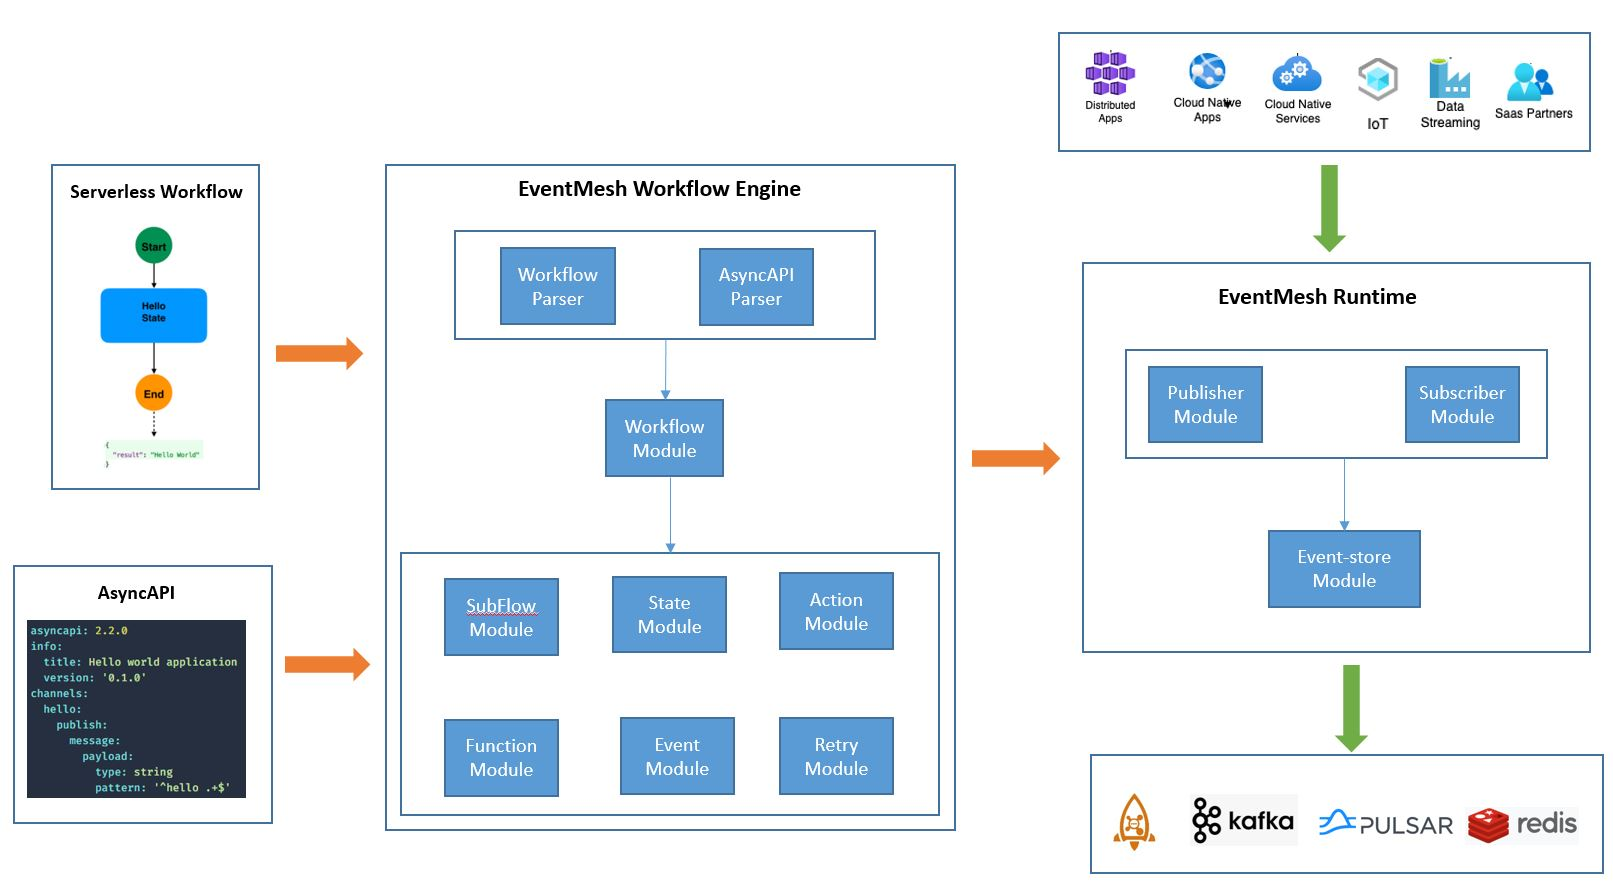
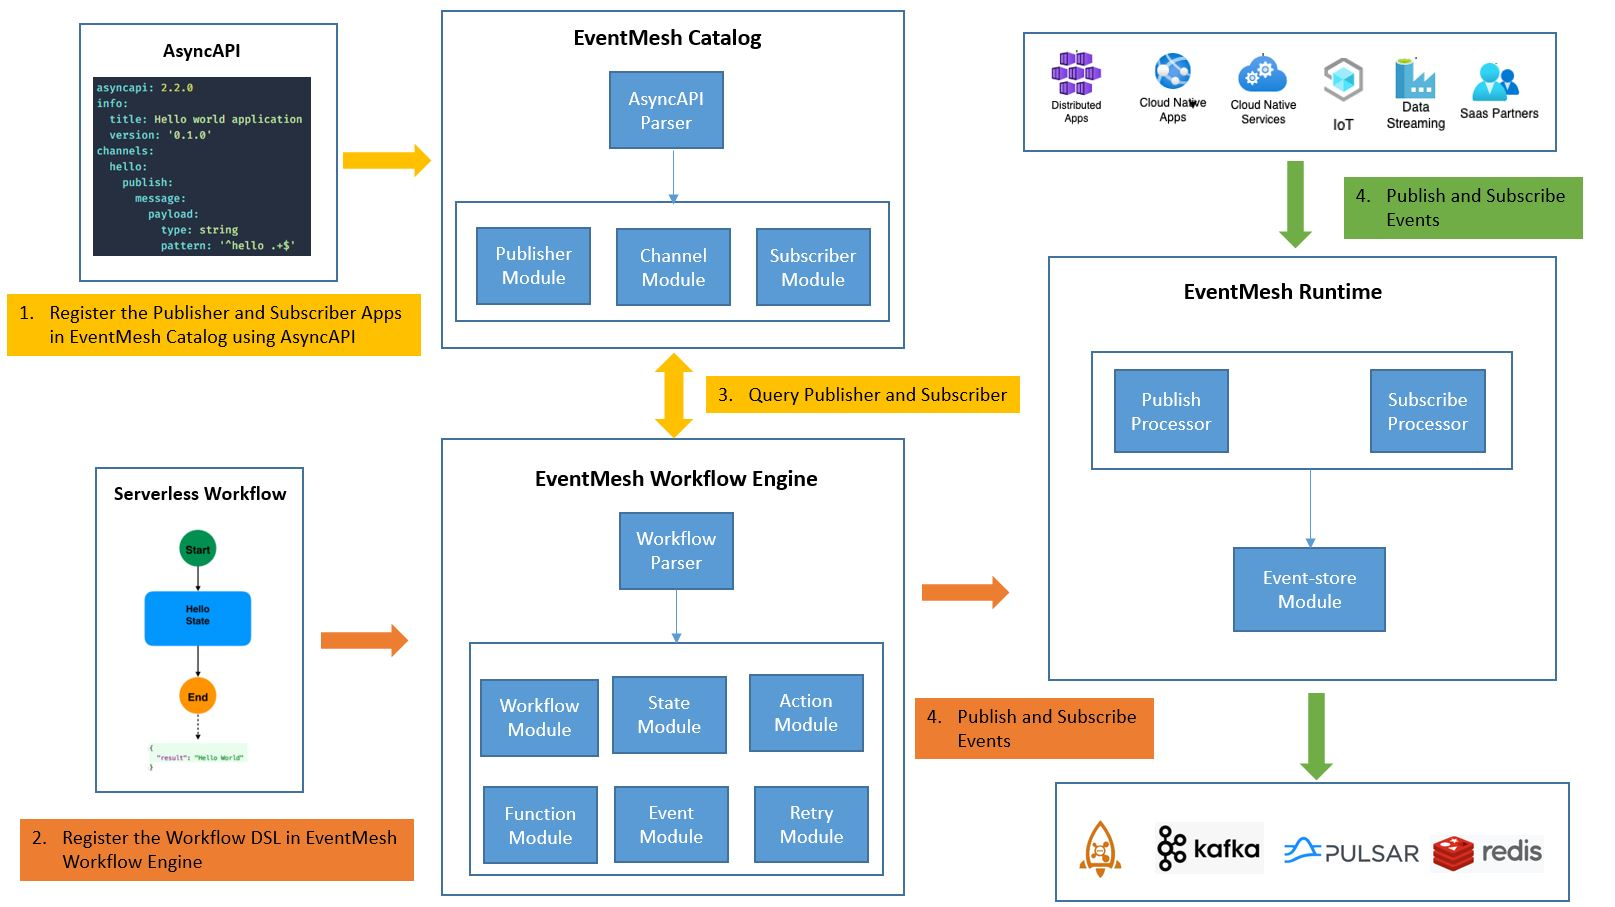
[Issue #553] update the design doc.

diff --git a/docs/en/features/eventmesh-workflow-design.md b/docs/en/features/eventmesh-workflow-design.md
@@ -204,9 +204,42 @@ states:
 
 ## EventMesh Workflow Engine
 
+In the following architecture diagram, the EventMesh Catalog, EventMesh Workflow Engine and EventMesh Runtime are running in three different processors.
+
 ![eventmesh-workflow-arch](../../images/features/eventmesh-workflow-arch.jpg?raw=true)
 
-## EventMesh Workflow Engine Design
+The steps running the workflow is the followings:
+
+1. Deploy the Publisher and Subscriber Apps in the environment.
+   Describe the App APIs using AsyncAPI, generate the asyncAPI yaml.
+   Register the Publisher and Subscriber Apps in EventMesh Catalog using AsyncAPI.
+   
+
+2. Register the Serverless Workflow DSL in EventMesh Workflow Engine.
+
+
+3. EventMesh Workflow Engine query the EventMesh Catalog for Publisher and Subscribers required in Workflow DSL `function`
+
+
+4. Event-driven Apps are publish events to EventMesh Runtime to trigger the Workflow. EventMesh Workflow Engine also publish and subscribe events for orchestrating the events.
+
+
+### EventMesh Catalog Design
+
+EventMesh Catalog store the Publisher, Subscriber and Channel metadata. consists of the following modules:
+
+- AsyncAPI Parser
+
+  Using the SDK provided by AsyncAPI community (see [tool list](https://www.asyncapi.com/docs/community/tooling)),
+  parse and validated the AsyncAPI yaml inputs, and generate the AsyncAPI definition.
+
+
+- Publisher, Channel, Subscriber Modules
+  
+  From the AsyncAPI definition store the Publisher, Subscriber and Channel information.
+
+
+### EventMesh Workflow Engine Design
 
 EventMesh Workflow Engine consists of the following modules:
 
@@ -214,12 +247,6 @@ EventMesh Workflow Engine consists of the following modules:
   
   Using the SDK provided by Serverless Workflow community (see supported [SDKs](https://github.com/serverlessworkflow/specification#sdks)),
   parse and validated the workflow DSL inputs, and generate workflow definition.
-  
-
-- AsyncAPI Parser
- 
-  Using the SDK provided by AsyncAPI community (see [tool list](https://www.asyncapi.com/docs/community/tooling)),
-  parse and validated the AsyncAPI yaml inputs, and generate the AsyncAPI definition.
 
 
 - Workflow Module
